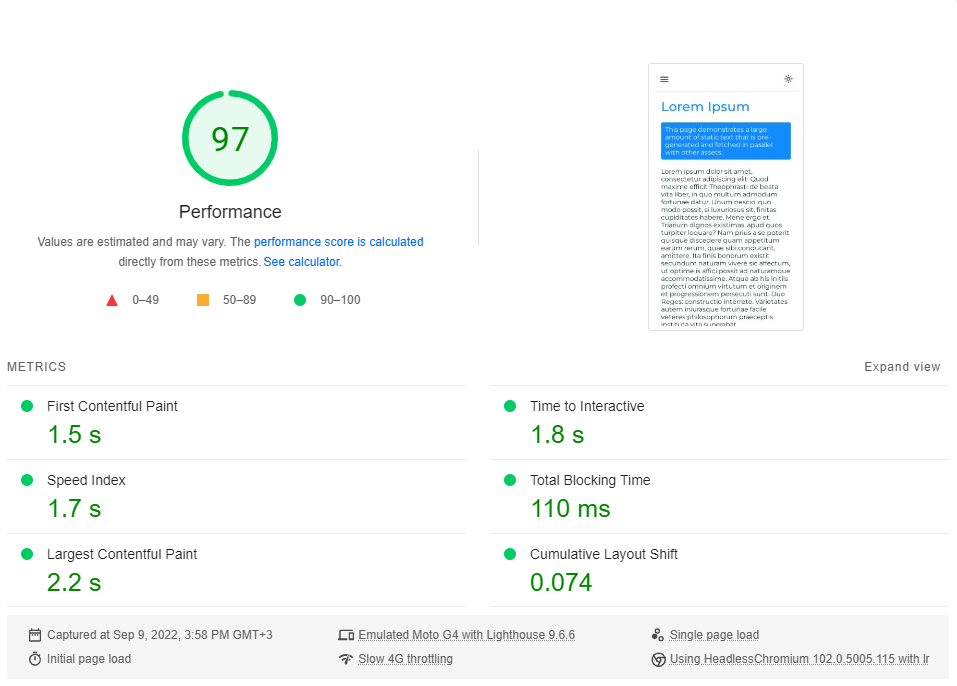
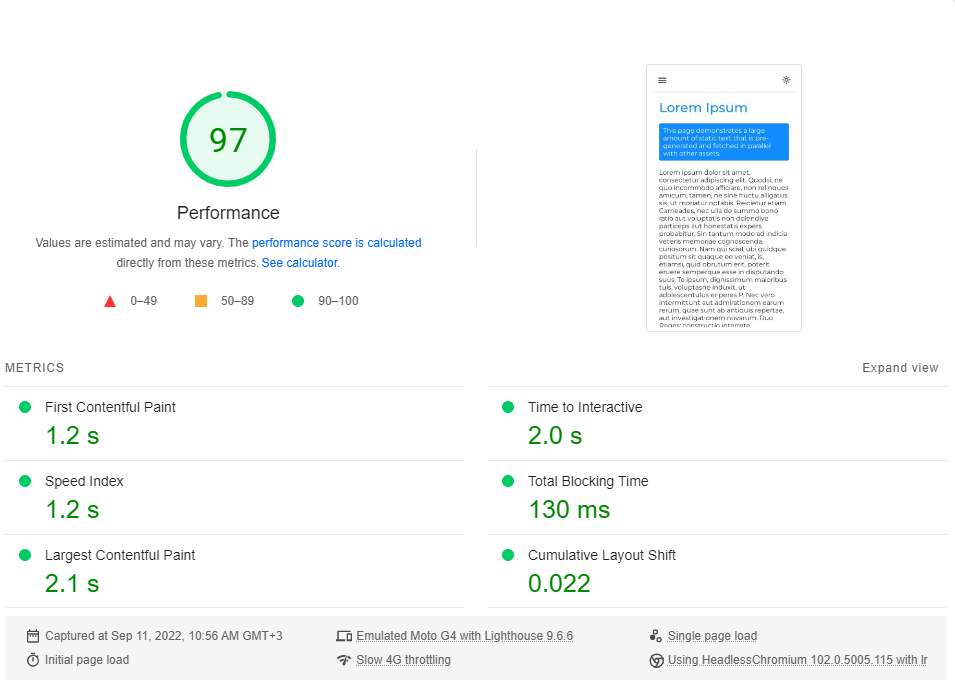
Update benchmark images after removing font preload

diff --git a/README.md b/README.md
@@ -688,7 +688,7 @@ As it turns out, performance is **not** a default in Next.js.
 
 ### Preact
 
-_[Lorem Ipsum | Client-side Rendering](https://pagespeed.web.dev/report?url=https%3A%2F%2Fc01ecf00.client-side-rendering.pages.dev%2Florem-ipsum)_
+_[Lorem Ipsum | Client-side Rendering](https://pagespeed.web.dev/report?url=https%3A%2F%2F1c6df098.client-side-rendering.pages.dev%2Florem-ipsum)_
 
 ![Preact Benchmark](images/client-side-rendering-preact-benchmark.png)
 
